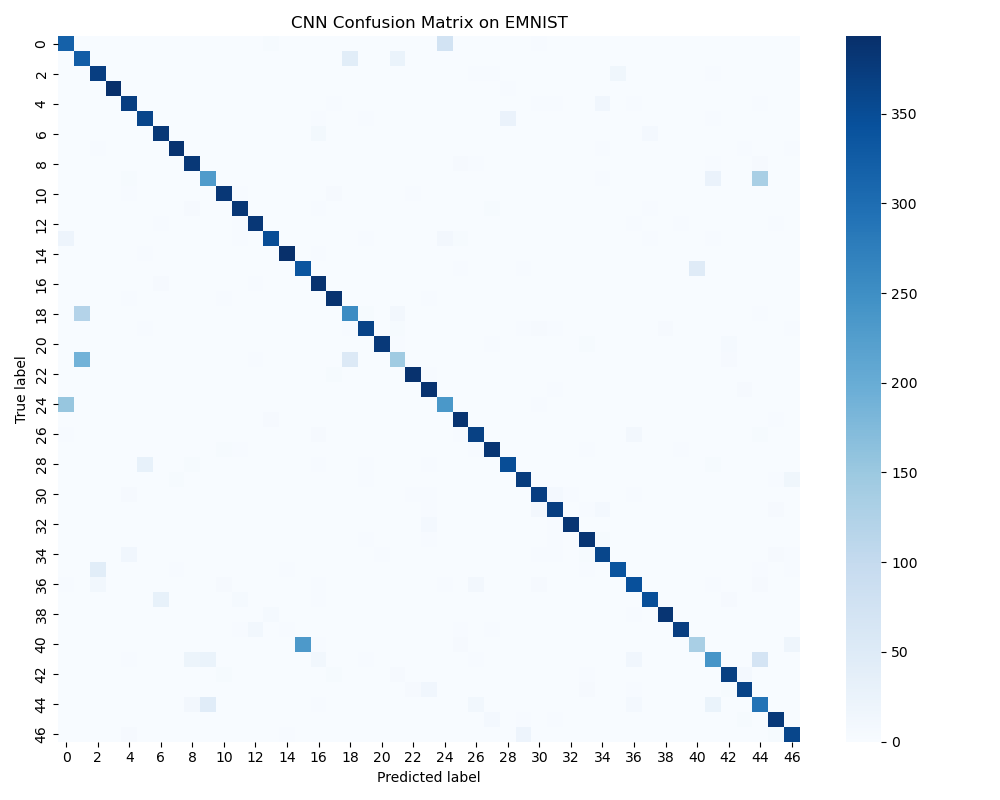
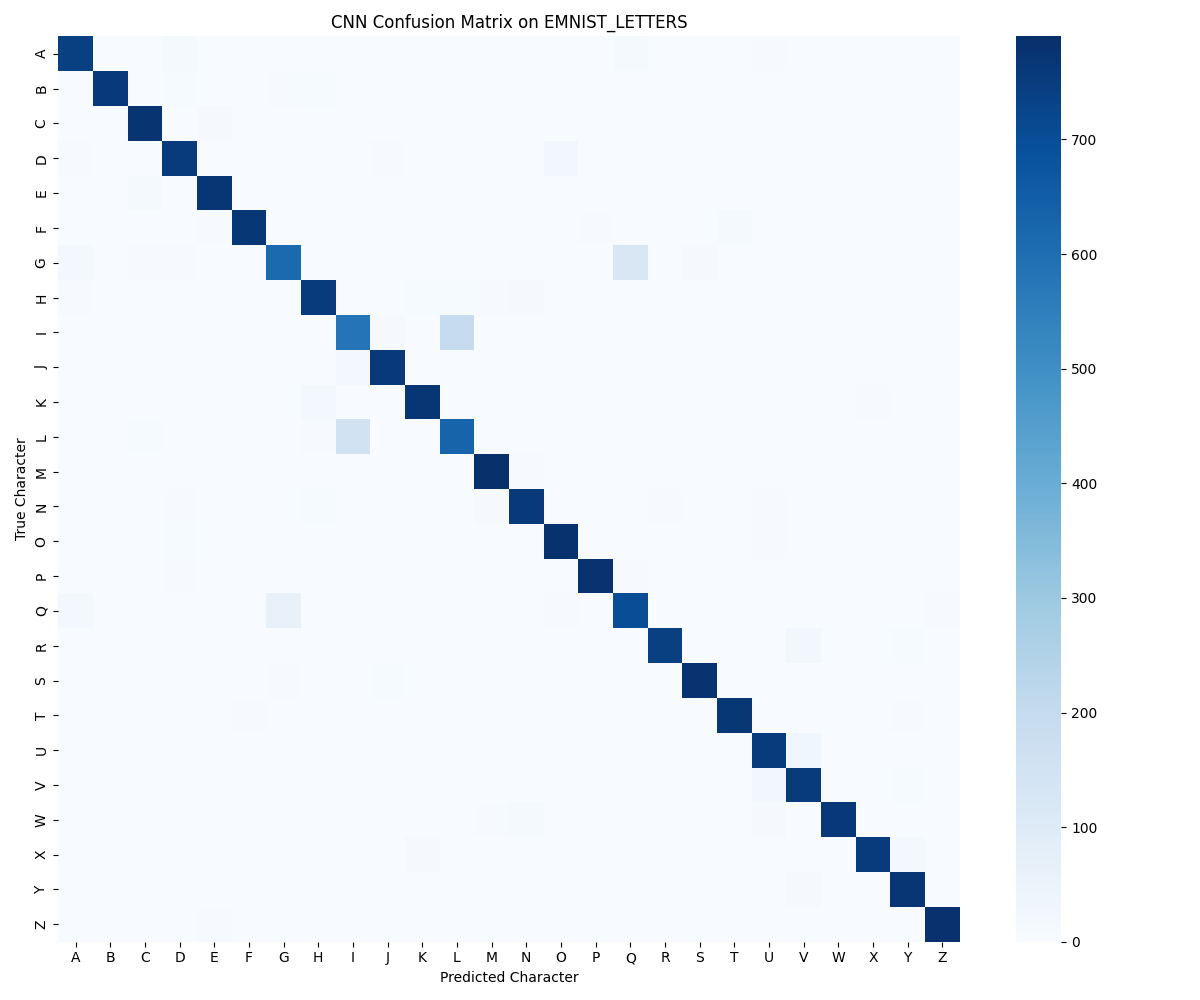
Updated the evaluation file to produce better graphs

diff --git a/src/evaluation/evaluate.py b/src/evaluation/evaluate.py
@@ -1,12 +1,27 @@
 import os
+import string
 import matplotlib.pyplot as plt
 import seaborn as sns
 import torch
 
 from sklearn.metrics import confusion_matrix
 
-from src.data.dataset import get_dataloaders
-from models.models_cnn import SimpleCNN
+from src.data_processing.dataset import get_dataloaders
+from src.models.models_cnn import SimpleCNN
+
+def get_label_map(dataset_name):
+    if dataset_name == "emnist_letters":
+        return {i: chr(ord('A') + i) for i in range(26)}
+
+    elif dataset_name == "mnist":
+        return {i: str(i) for i in range(10)}
+
+    elif dataset_name == "emnist_balanced":
+        chars = list(string.digits + string.ascii_uppercase + string.ascii_lowercase)
+        return {i: chars[i] for i in range(len(chars))}
+
+    else:
+        return None
 
 # Load the model
 def load_model(model_path, device, num_classes):
@@ -51,37 +66,75 @@ def compute_accuracy(preds, labels):
     return correct / len(labels)
 
 # Plot confusion matrix
-def plot_confusion_matrix(labels, preds, dataset_name, save_path="outputs/confusion_matrix.png"):
+def plot_confusion_matrix(
+    labels,
+    preds,
+    dataset_name,
+    save_path="outputs/confusion_matrix.png"
+):
     os.makedirs("outputs", exist_ok=True)
+
     cm = confusion_matrix(labels, preds)
 
-    plt.figure(figsize=(10, 8))
-    sns.heatmap(cm, cmap="Blues")
-    plt.xlabel("Predicted label")
-    plt.ylabel("True label")
+    label_map = get_label_map(dataset_name)
+
+    if label_map:
+        class_names = [label_map[i] for i in range(len(label_map))]
+    else:
+        class_names = [str(i) for i in range(cm.shape[0])]
+
+    plt.figure(figsize=(12, 10))
+
+    sns.heatmap(
+        cm,
+        cmap="Blues",
+        xticklabels=class_names,
+        yticklabels=class_names
+    )
+
+    plt.xlabel("Predicted Character")
+    plt.ylabel("True Character")
     plt.title(f"CNN Confusion Matrix on {dataset_name.upper()}")
+
     plt.tight_layout()
     plt.savefig(save_path)
     plt.close()
 
     print(f"Saved confusion matrix to {save_path}")
 
-def save_misclassified_examples(misclassified, save_path="outputs/misclassified_examples.png", max_examples=9):
+
+# Save misclassified examples
+def save_misclassified_examples(
+    misclassified,
+    dataset_name,
+    save_path="outputs/misclassified_examples.png",
+    max_examples=9
+):
     if not misclassified:
         print("No misclassified examples found.")
         return
 
+    label_map = get_label_map(dataset_name)
+
     os.makedirs("outputs", exist_ok=True)
+
     examples = misclassified[:max_examples]
 
     cols = 3
     rows = (len(examples) + cols - 1) // cols
+
     plt.figure(figsize=(10, 10))
 
     for i, example in enumerate(examples):
         plt.subplot(rows, cols, i + 1)
+
         plt.imshow(example["image"].squeeze(0), cmap="gray")
-        plt.title(f"T:{example['true']} P:{example['pred']}")
+
+        true_label = label_map[example["true"]]
+        pred_label = label_map[example["pred"]]
+
+        plt.title(f"True: {true_label}\nPred: {pred_label}")
+
         plt.axis("off")
 
     plt.tight_layout()
@@ -90,14 +143,10 @@ def save_misclassified_examples(misclassified, save_path="outputs/misclassified_
 
     print(f"Saved misclassified examples to {save_path}")
 
-# Get misclassified examples
-def get_misclassified(preds, labels):
-    mistakes = [(i, p, l) for i, (p, l) in enumerate(zip(preds, labels)) if p != l]
-    return mistakes[:10]  # first 10
 
 # main evaluation function
 def main():
-    dataset_name = "emnist"
+    dataset_name = "emnist_letters"
     batch_size = 64
     image_size = 28
     data_dir = "data"
@@ -123,7 +172,7 @@ def main():
     print(f"CNN test accuracy on {dataset_name.upper()}: {accuracy:.4f}")
 
     plot_confusion_matrix(labels, preds, dataset_name=dataset_name)
-    save_misclassified_examples(misclassified)
+    save_misclassified_examples(misclassified, dataset_name=dataset_name)
 
     print("\nSample misclassifications:")
     for item in misclassified[:10]:
